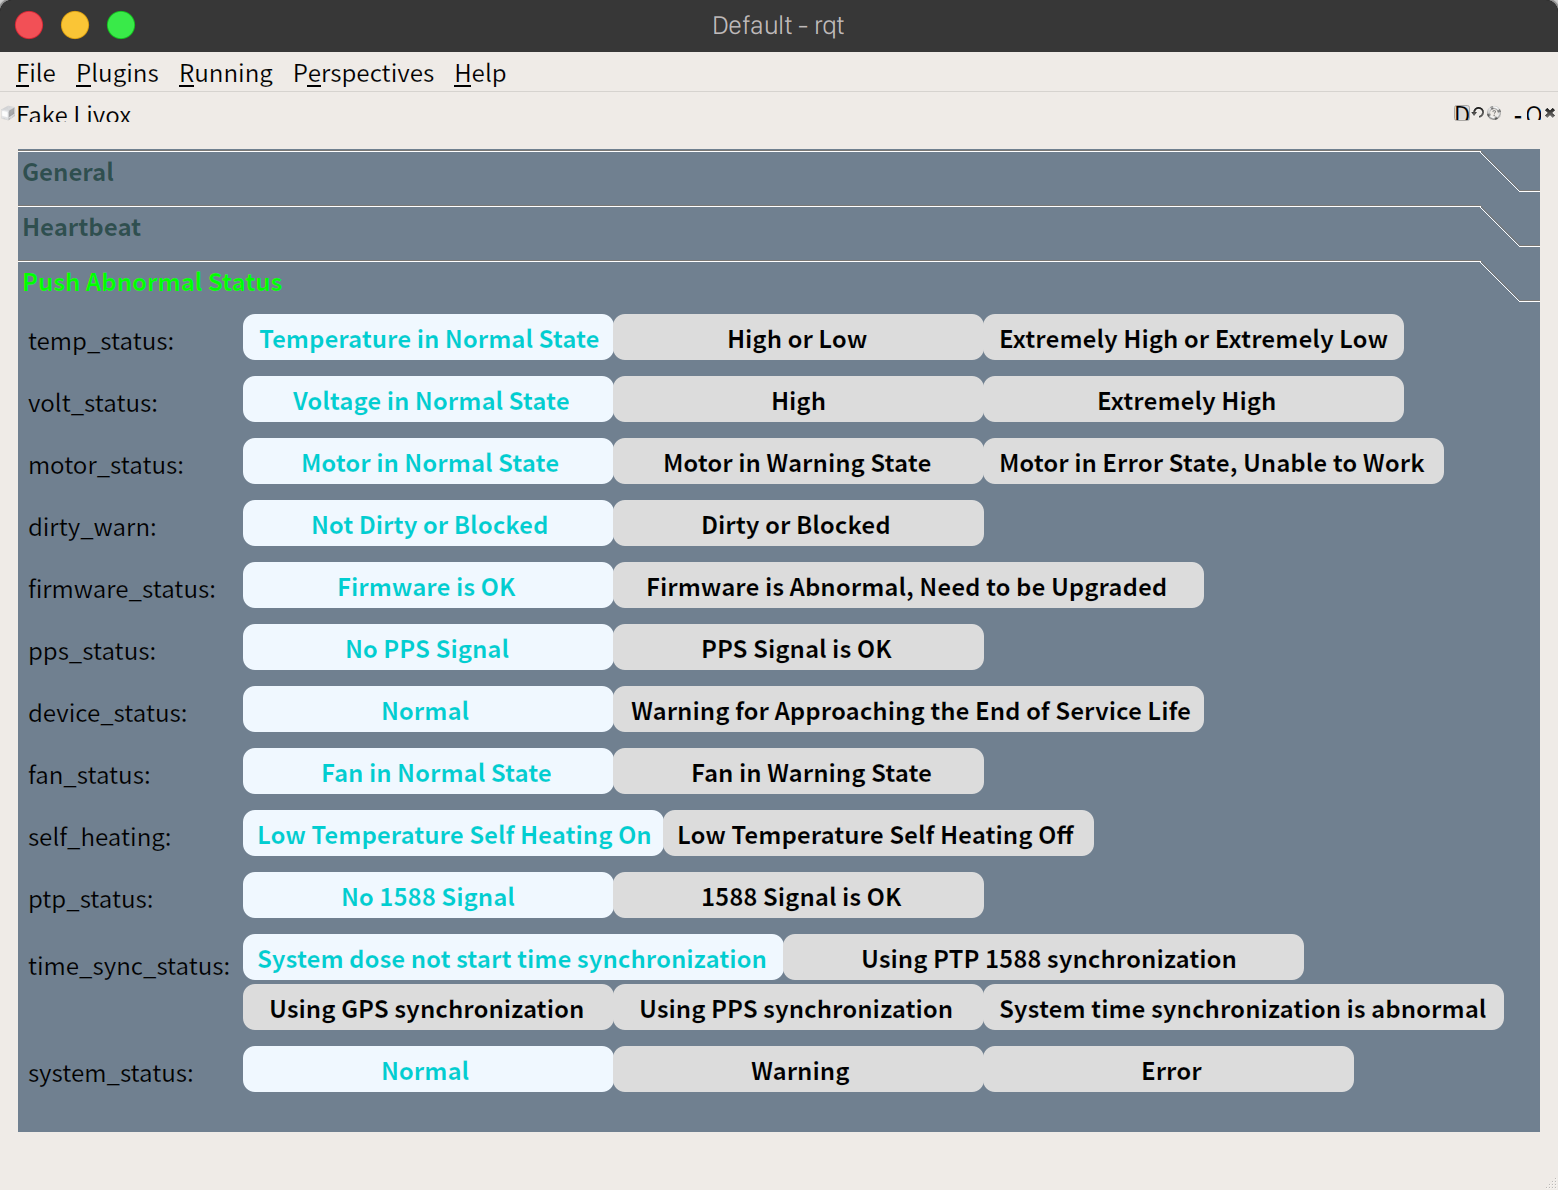
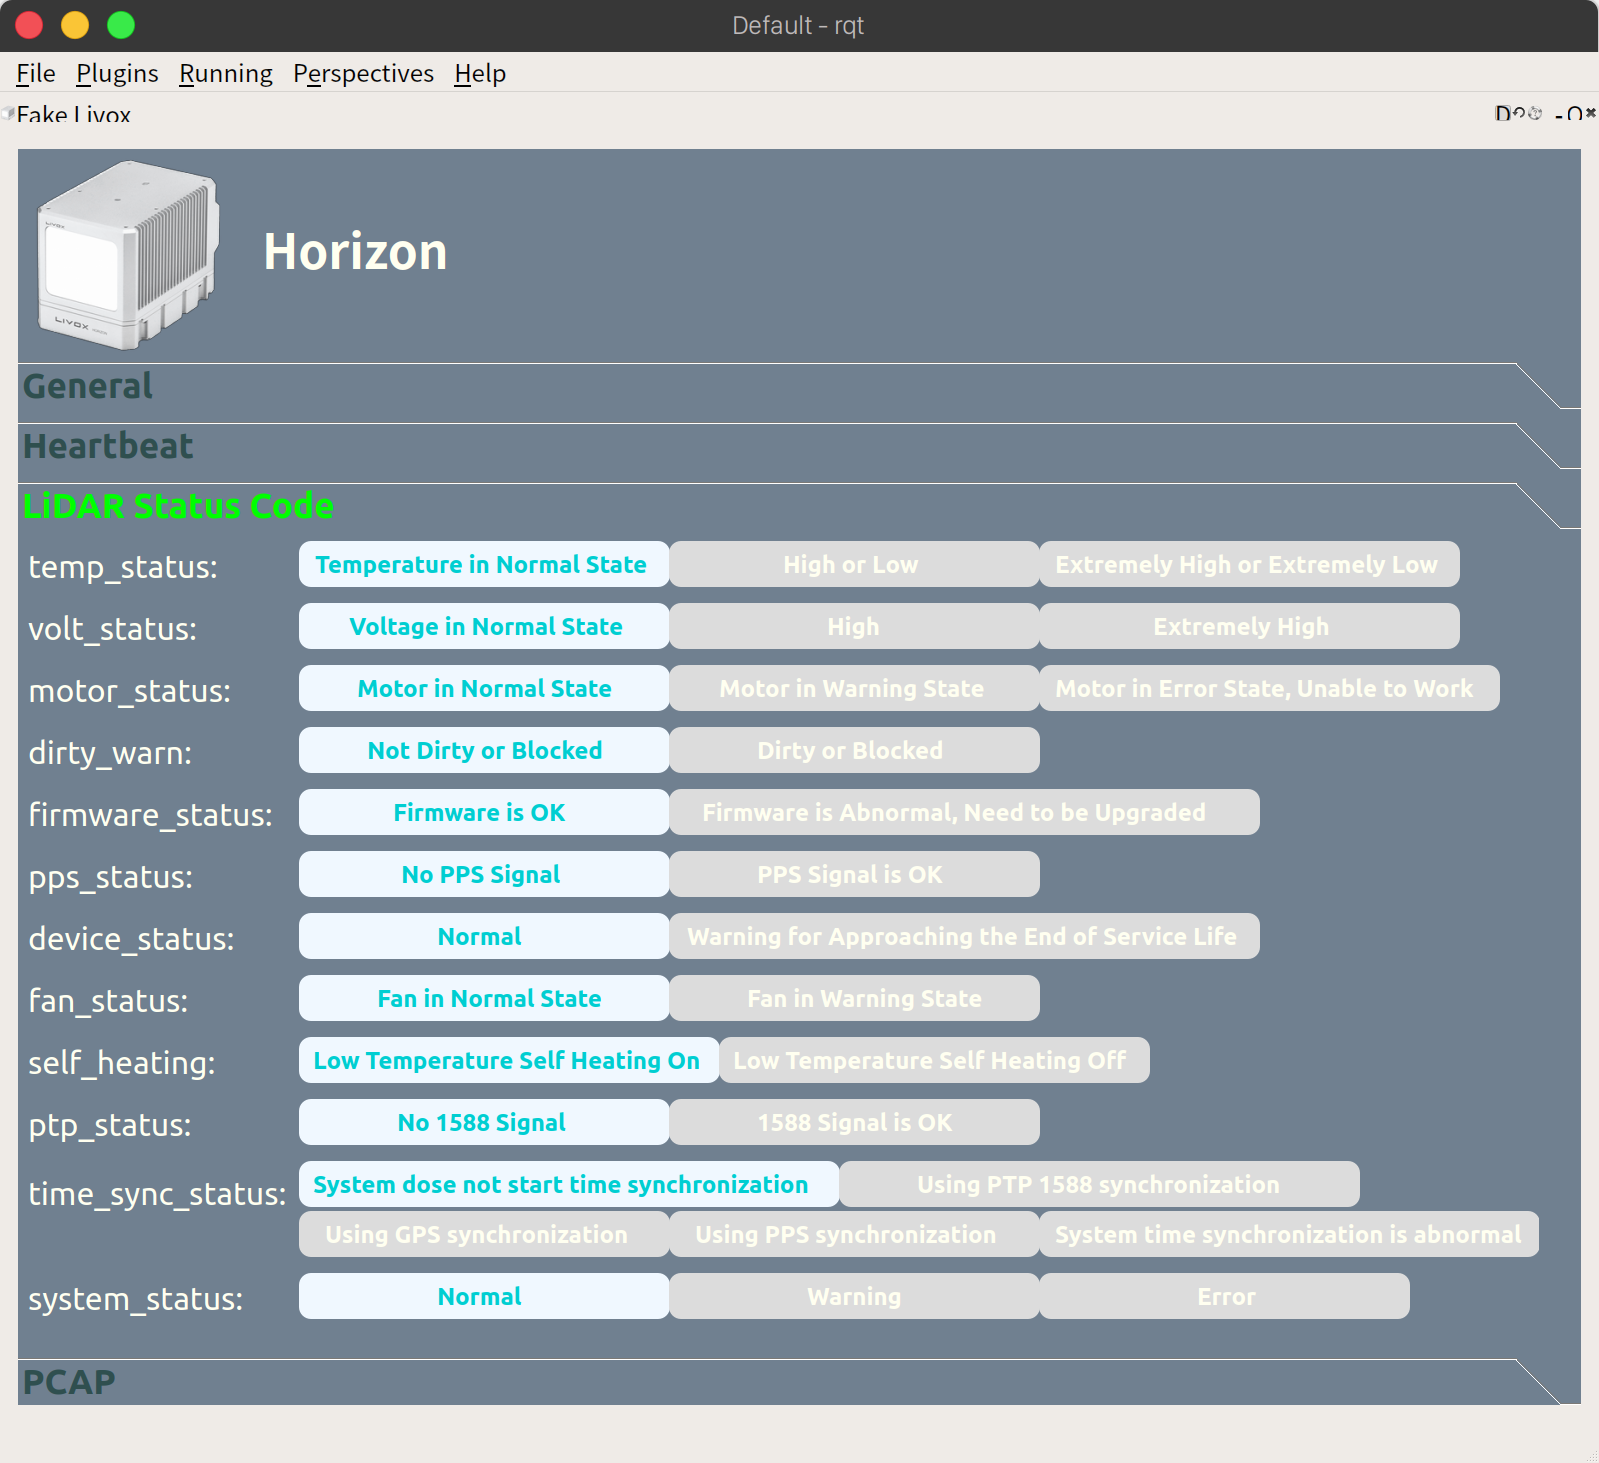
Updated readme.

diff --git a/fake_livox/README.md b/fake_livox/README.md
@@ -5,7 +5,7 @@
 1. Enable Fake Livox plugin.
 
 - Choose from the menu: `Plugins`->`Fake Sensor Tools`->`Fake Livox`
-  ![window](docs/readme_01.png)
+  <img src="docs/readme_01.png" width="300" alt="rqt">
 
 2. Launch sensor driver.
 
@@ -13,15 +13,35 @@
 roslaunch livox_ros_driver livox_lidar.launch
 ```
 
+- or if you wish to see point cloud in rviz, type the following command.
+
+```
+roslaunch livox_ros_driver livox_lidar_rviz.launch
+```
+
+- or you can use Livox Viewer.
+  - Download the app.<br>
+    https://www.livoxtech.com/jp/downloads
+  - Decompress downloaded file. Type the following command. For example, <br>
+
+```
+tar xvf Livox_Viewer_For_Linux_Ubuntu16.04_x64_0.8.0.tar.gz
+```
+
+- Run Livox Viewer, Type.
+
+```
+./livox_viewer.sh
+```
+
 3. Start communication with sensor driver.
 
 - Specify any broadcast code in `Broadcast code` field.
-- If you wish to transmit point cloud data by using .pcap file,
+- If you wish to transmit point cloud data and IMU data by using .pcap file,
   - Specify any .pcap file on `PCAP` page.
-  - Select packets to transmit if you wish to transmit specific packets.
-    (All UDP packets will be transmitted if none is selected.)
+  - Specify source address or packets to transmit.
 - Then, turn on `Communication` switch to start communication with Livox ROS Driver.
-  ![window](docs/readme_02.png)
+  <img src="docs/readme_02.png" width="500" alt="General">
 
 Then transmission will be started.
 
@@ -29,18 +49,19 @@ Then transmission will be started.
 
 ## `General` page
 
-| Field            | Description                   | Notes                                                          |
-| ---------------- | ----------------------------- | -------------------------------------------------------------- |
-| `Broadcast code` | Broadcast code                |                                                                |
-| `Communication`  | Start/Stop communication      |                                                                |
-| `Checksum error` | Enable/Disable checksum error | The checksum value will be set to `??` if enabled.             |
-| `Debug output`   | Enable/Disable debug output   | Transmission data can be seen in a terminal window if enabled. |
+| Field               | Description                   | Notes                                                          |
+| ------------------- | ----------------------------- | -------------------------------------------------------------- |
+| `Broadcast code`    | Broadcast code                |                                                                |
+| `Communication`     | Start/Stop communication      |                                                                |
+| `Checksum error`    | Enable/Disable checksum error | The checksum value will be set to `??` if enabled.             |
+| `Debug output`      | Enable/Disable debug output   | Transmission data can be seen in a terminal window if enabled. |
+| `Network interface` | NIC/IP address to use         |                                                                |
 
 ---
 
 ## `Heartbeat` page
 
-![window](docs/readme_03.png)
+<img src="docs/readme_03.png" width="500" alt="Heartbeat">
 
 | Field                         | Description                 | Notes |
 | ----------------------------- | --------------------------- | ----- |
@@ -54,7 +75,7 @@ Status Code can be set using the settings of "Push Abnormal Status".
 
 ### If LiDAR State is `Initializing`
 
-![window](docs/readme_04.png)
+<img src="docs/readme_04.png" width="500" alt="Initializing">
 
 | Field                     | Description             | Notes |
 | ------------------------- | ----------------------- | ----- |
@@ -62,9 +83,9 @@ Status Code can be set using the settings of "Push Abnormal Status".
 
 ---
 
-## `Push Abnormal Status` page
+## `LiDAR Status Code` page
 
-![window](docs/readme_05.png)
+<img src="docs/readme_05.png" width="500" alt="LiDAR Status Code">
 
 | Field              | Description                       | Notes                                                                             |
 | ------------------ | --------------------------------- | --------------------------------------------------------------------------------- |
@@ -74,7 +95,7 @@ Status Code can be set using the settings of "Push Abnormal Status".
 | `dirty_warn`       | Dirty/Blocked Status              |                                                                                   |
 | `firmware_status`  | Firmware Status                   |                                                                                   |
 | `pps_status`       | PPS Status                        |                                                                                   |
-| `device_status`    | Device SFantatus                  |                                                                                   |
+| `device_status`    | Device Status                     |                                                                                   |
 | `fan_status`       | Motor Status                      |                                                                                   |
 | `self_heating`     | Self Heating Status               |                                                                                   |
 | `ptp_status`       | PTP Status                        |                                                                                   |
@@ -85,30 +106,68 @@ Status Code can be set using the settings of "Push Abnormal Status".
 
 - [Livox SDK Communication Protocol](https://github.com/Livox-SDK/Livox-SDK/wiki/Livox-SDK-Communication-Protocol)
 
-When the `system_status` is changed from 'Normal' to `Warning` or `Error`, the `Push Abnormal Status` message will be immediately transmitted at 10Hz.
-
 ## `PCAP` page
 
-Point cloud data can be transmitted by using .pcap file.
+Point cloud data and IMU data can be transmitted by using .pcap file.
 
-![window](docs/readme_06.png)
+<img src="docs/readme_06.png" width="500" alt="PCAP">
 
-| Field         | Description                                                   | Notes                                                                                                                                    |
-| ------------- | ------------------------------------------------------------- | ---------------------------------------------------------------------------------------------------------------------------------------- |
-| `Path`        | Path of .pcap file                                            |                                                                                                                                          |
-| `...`         | Button to select .pcap file                                   |                                                                                                                                          |
-| `Read`        | Read .pcap file and show packets information in `UDP Packets` |                                                                                                                                          |
-| `Loop`        | Enable/Disable loop playback                                  |                                                                                                                                          |
-| `UDP Packets` | UDP packets information                                       | You can apply packet filter. Check a checkbox or double click a table row.<br>(All UDP packets will be transmitted if none is selected.) |
+| Field              | Description                                                             | Notes                                                                                         |
+| ------------------ | ----------------------------------------------------------------------- | --------------------------------------------------------------------------------------------- |
+| `Path`             | Path of .pcap file                                                      |                                                                                               |
+| `...`              | Button to select .pcap file                                             |                                                                                               |
+| `Read`             | Read .pcap file and show packets information in `UDP Packets`           |                                                                                               |
+| `Loop`             | Enable/Disable loop playback                                            |                                                                                               |
+| `Source address`   | Source address filter to transmit packets                               | Point cloud and IMU data from this source address will be automatically filtered to transmit. |
+| `Select from list` | Another packet filter option, you can specify UDP packets from the list |                                                                                               |
+| list               | UDP packets information                                                 |                                                                                               |
 
-### To save you time...
+### Select from list option
 
-When you specify any .pcap file by using `...` or press `Read`, the tool will start to read .pcap file.
+You can apply packet filter. Check a checkbox or double click a table row.<br>(All UDP packets will be transmitted if none is selected.)
+<img src="docs/readme_07.png" width="500" alt="Select from list">
 
-![window](docs/readme_07.png)
+\*Multicast packets are filtered, not shown in the list, and not forwarded to the port.
 
-This procedure is to display UDP packets information in the list,
-so you can cancel in the middle of this procedure
-if you wish to send all packets or when a specific packet that you wish to send is shown in the list.
+## Emulate multiple LiDARs
 
-Multicast packets are filtered, not shown in the list, and not forwarded to the port.
+You can emulate multiple LiDARs in a single host.
+
+1. Add alias network interface by using `ifconfig`.<br>
+   Type the following command
+
+```
+sudo ifconfig <interface>:<alias> <address> netmask <netmask address>
+```
+
+like
+
+```
+sudo ifconfig enp0s31f6:1 192.168.0.100 netmask 255.255.255.0
+```
+
+2. Run RQt.
+
+```
+rqt
+```
+
+3. Add another Fake Livox plugin.
+
+4. Specify title name.
+
+   You can edit the text on the right of Livox image(text displayed as "Livox") so that it would be easier to understand which window is for which LiDAR.
+
+   The following example is for 3 LiDARs.
+   <img src="docs/readme_08.png" width="600" alt="Example1">
+
+5. Specify a broadcast code in `Broadcast code` field.
+6. Select the aliased network interface from `Network interface`.
+7. Read .pcap file.
+8. Select source address from `Source address`.
+
+   The following example is for 3 LiDARs.
+   <img src="docs/readme_09.png" width="600" alt="Example2">
+
+   Here is an example for Livox Viewer.
+   <img src="docs/readme_10.png" width="600" alt="Example3">
